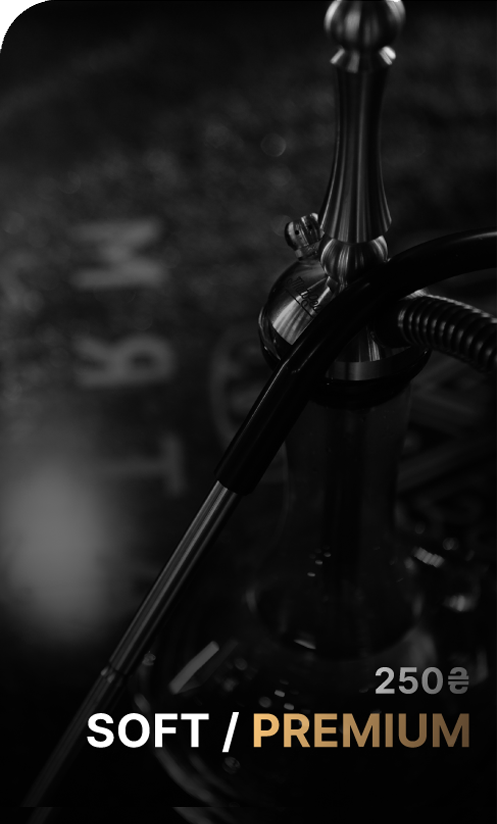
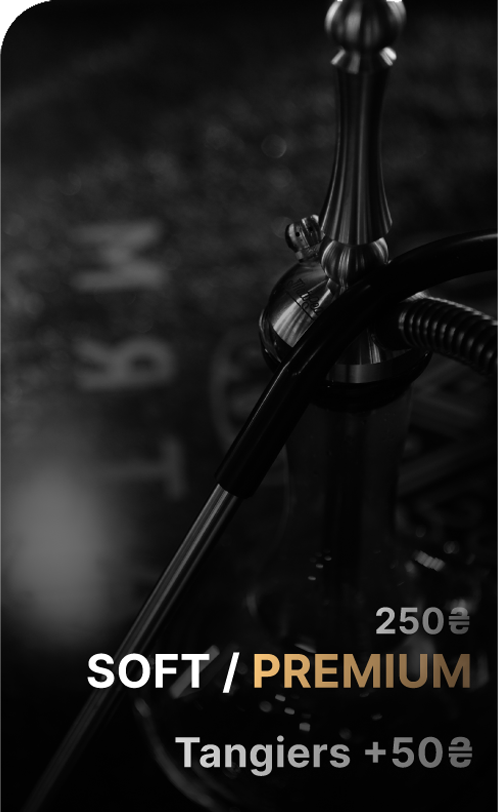
ahh

diff --git a/Style/template_normal.min.css b/Style/template_normal.min.css
@@ -140,6 +140,7 @@
 /*Вкладки*/
   .tabs {
     border: none;
+    
   }
 
 
@@ -150,15 +151,15 @@
   }
 
   .tabs__nav {
+    -moz-border-radius-topleft: 15vw; 
+
     padding-left: 15px;
     padding-top: 35px;
     justify-content: left;
     display: flex;
     flex-wrap: wrap;
     list-style-type: none;
-    background-color: #E6E6E6;
-    -moz-border-radius-topleft:15vw; 
-    -webkit-border-top-left-radius: 15vw;  
+    
   }
 
 .tabs__btn {
@@ -314,7 +315,7 @@ color: #161616;
 /*Скрол меню*/
 .nav-scroller {
   overflow-y: hidden;
-  background-color: #F5F5F5;
+
   box-shadow: 0 0.125rem 0.25rem rgba(0, 0, 0, 0.075);
 }
 .nav-scroller__items {
@@ -599,7 +600,6 @@ color: #423f3f;
 
   #beer_in,#gin_in,#liqueur_in,#tequila_in,#rum_in,#whiskey_in,#cognac_in,#vodka_in,#wine_in,#sparkling_in,#cocktails_in, #shot_in {
     -moz-border-radius-topleft: 15vw; 
-    -webkit-border-top-left-radius: 15vw; 
     position: relative;
     top: 0px;
     left: 0px;
@@ -688,25 +688,29 @@ color: #423f3f;
   }
 
 
-  #Tokyo{
-    background: linear-gradient(358.62deg, rgba(0, 0, 0, 0.8) 1.11%, rgba(0, 0, 0, 0) 98.81%), url(/Image/pictures/hookah.jpg);
-    
+  #Tokyo img{
+    -moz-border-radius-topleft: 15vw; 
   }
+ 
 
   #Tokyo p{
+    position: absolute;
     font-family: 'Inter';
     font-style: normal;
     font-weight: 700;
     font-size: 28px;
     line-height: 34px;
-    /* identical to box height */
-    
+
     letter-spacing: 0.32px;
     
     color: linear-gradient(100.7deg, #C7C7C7 0%, rgba(199, 199, 199, 0) 136.33%);
   
   }
-      #tokyo h1{
+      #Tokyo h1{
+        position: absolute;
+        top: 250px;
+        left: 0;
+        width: 100%;
         font-family: 'Inter';
         font-style: normal;
         font-weight: 700;
@@ -723,18 +727,21 @@ color: #423f3f;
 
   @media (min-width: 499px) {
 
+     
+
     #button_in{
       margin-right: 20%;
       margin-left: 20%;
     }
 
     .tabcontent {
-        background-color: #F5F5F5;
+        background-color: #E6E6E6;
+        margin-right: 20%;
+        margin-left: 20%;
       }
   
      .tabs {
-        margin-right: 25%;
-        margin-left: 25%;
+      
      }
       
      .tab button.active {
@@ -790,8 +797,9 @@ color: #423f3f;
      }
   
      .bar_img{
-      margin-right: 20%;
-      margin-left: 20%;
+      margin-right: 0%;
+      margin-left: 0%;
+      margin: 5vw;
         }
   
      .bar_img button{
@@ -807,6 +815,11 @@ color: #423f3f;
       letter-spacing: 0.32px;
       color: #FFFFFF;
     }
+
+#Tokyo{
+  margin-right: 20%;
+  margin-left: 20%;
+}
   
   }
 
